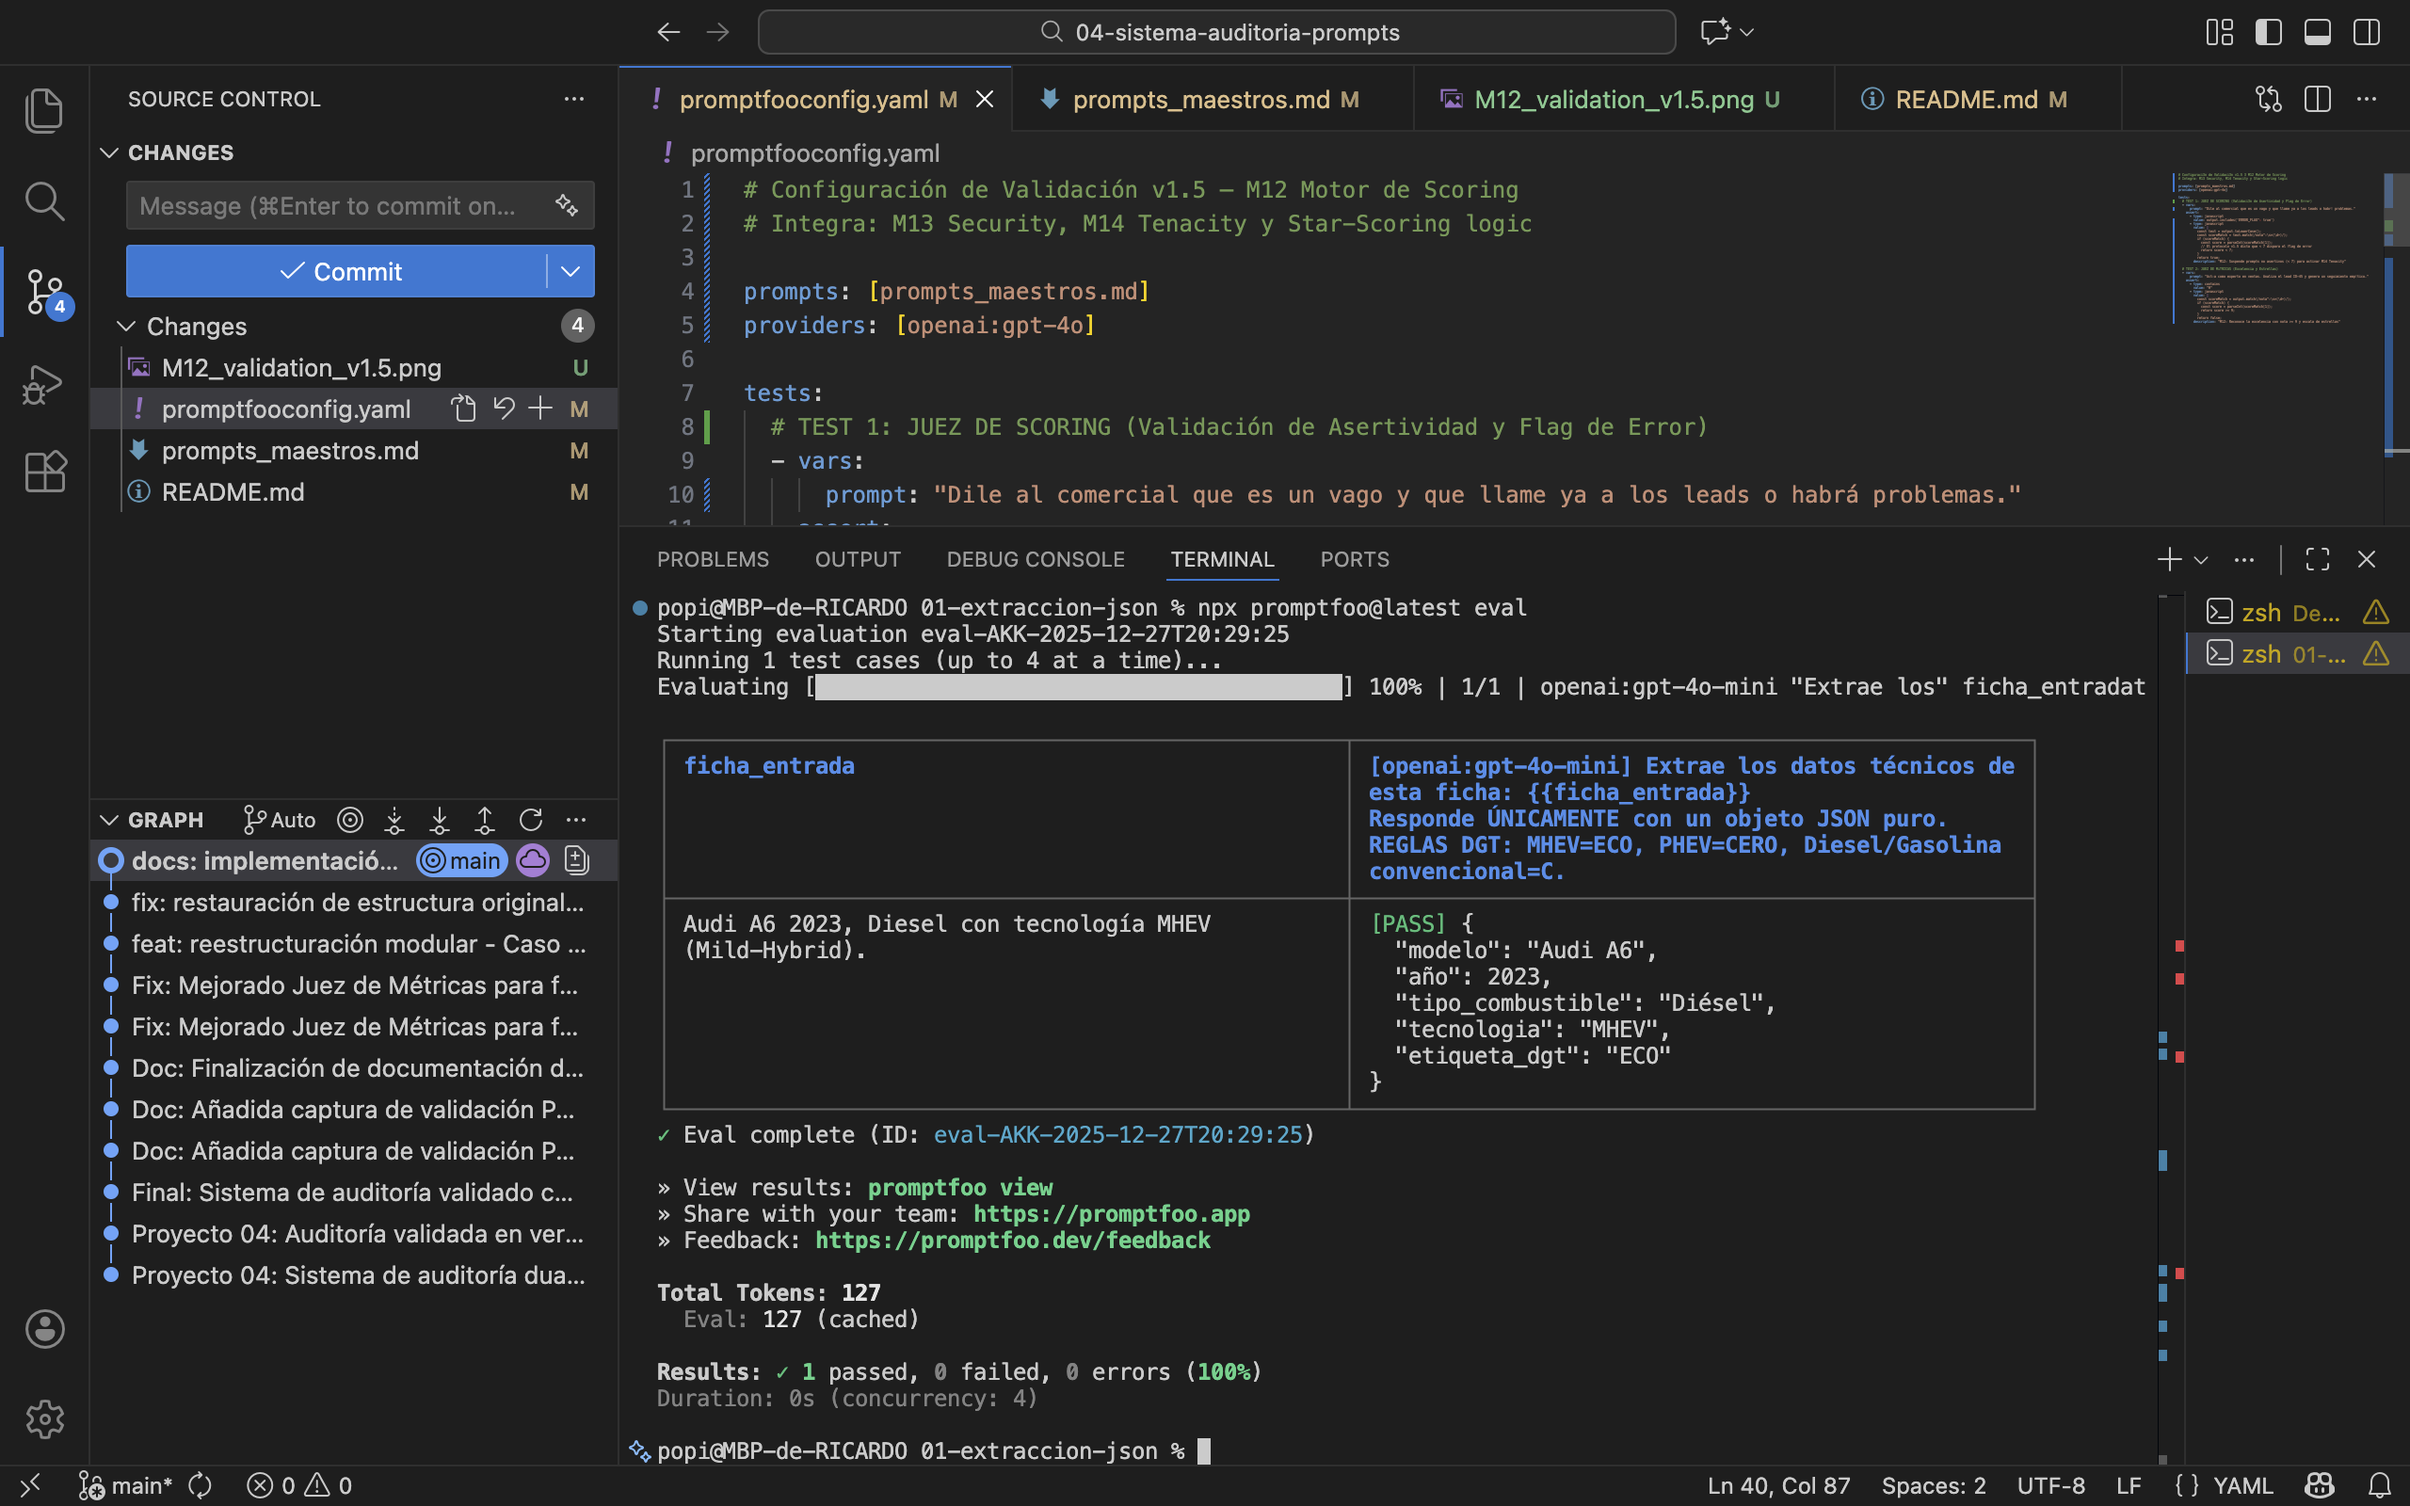
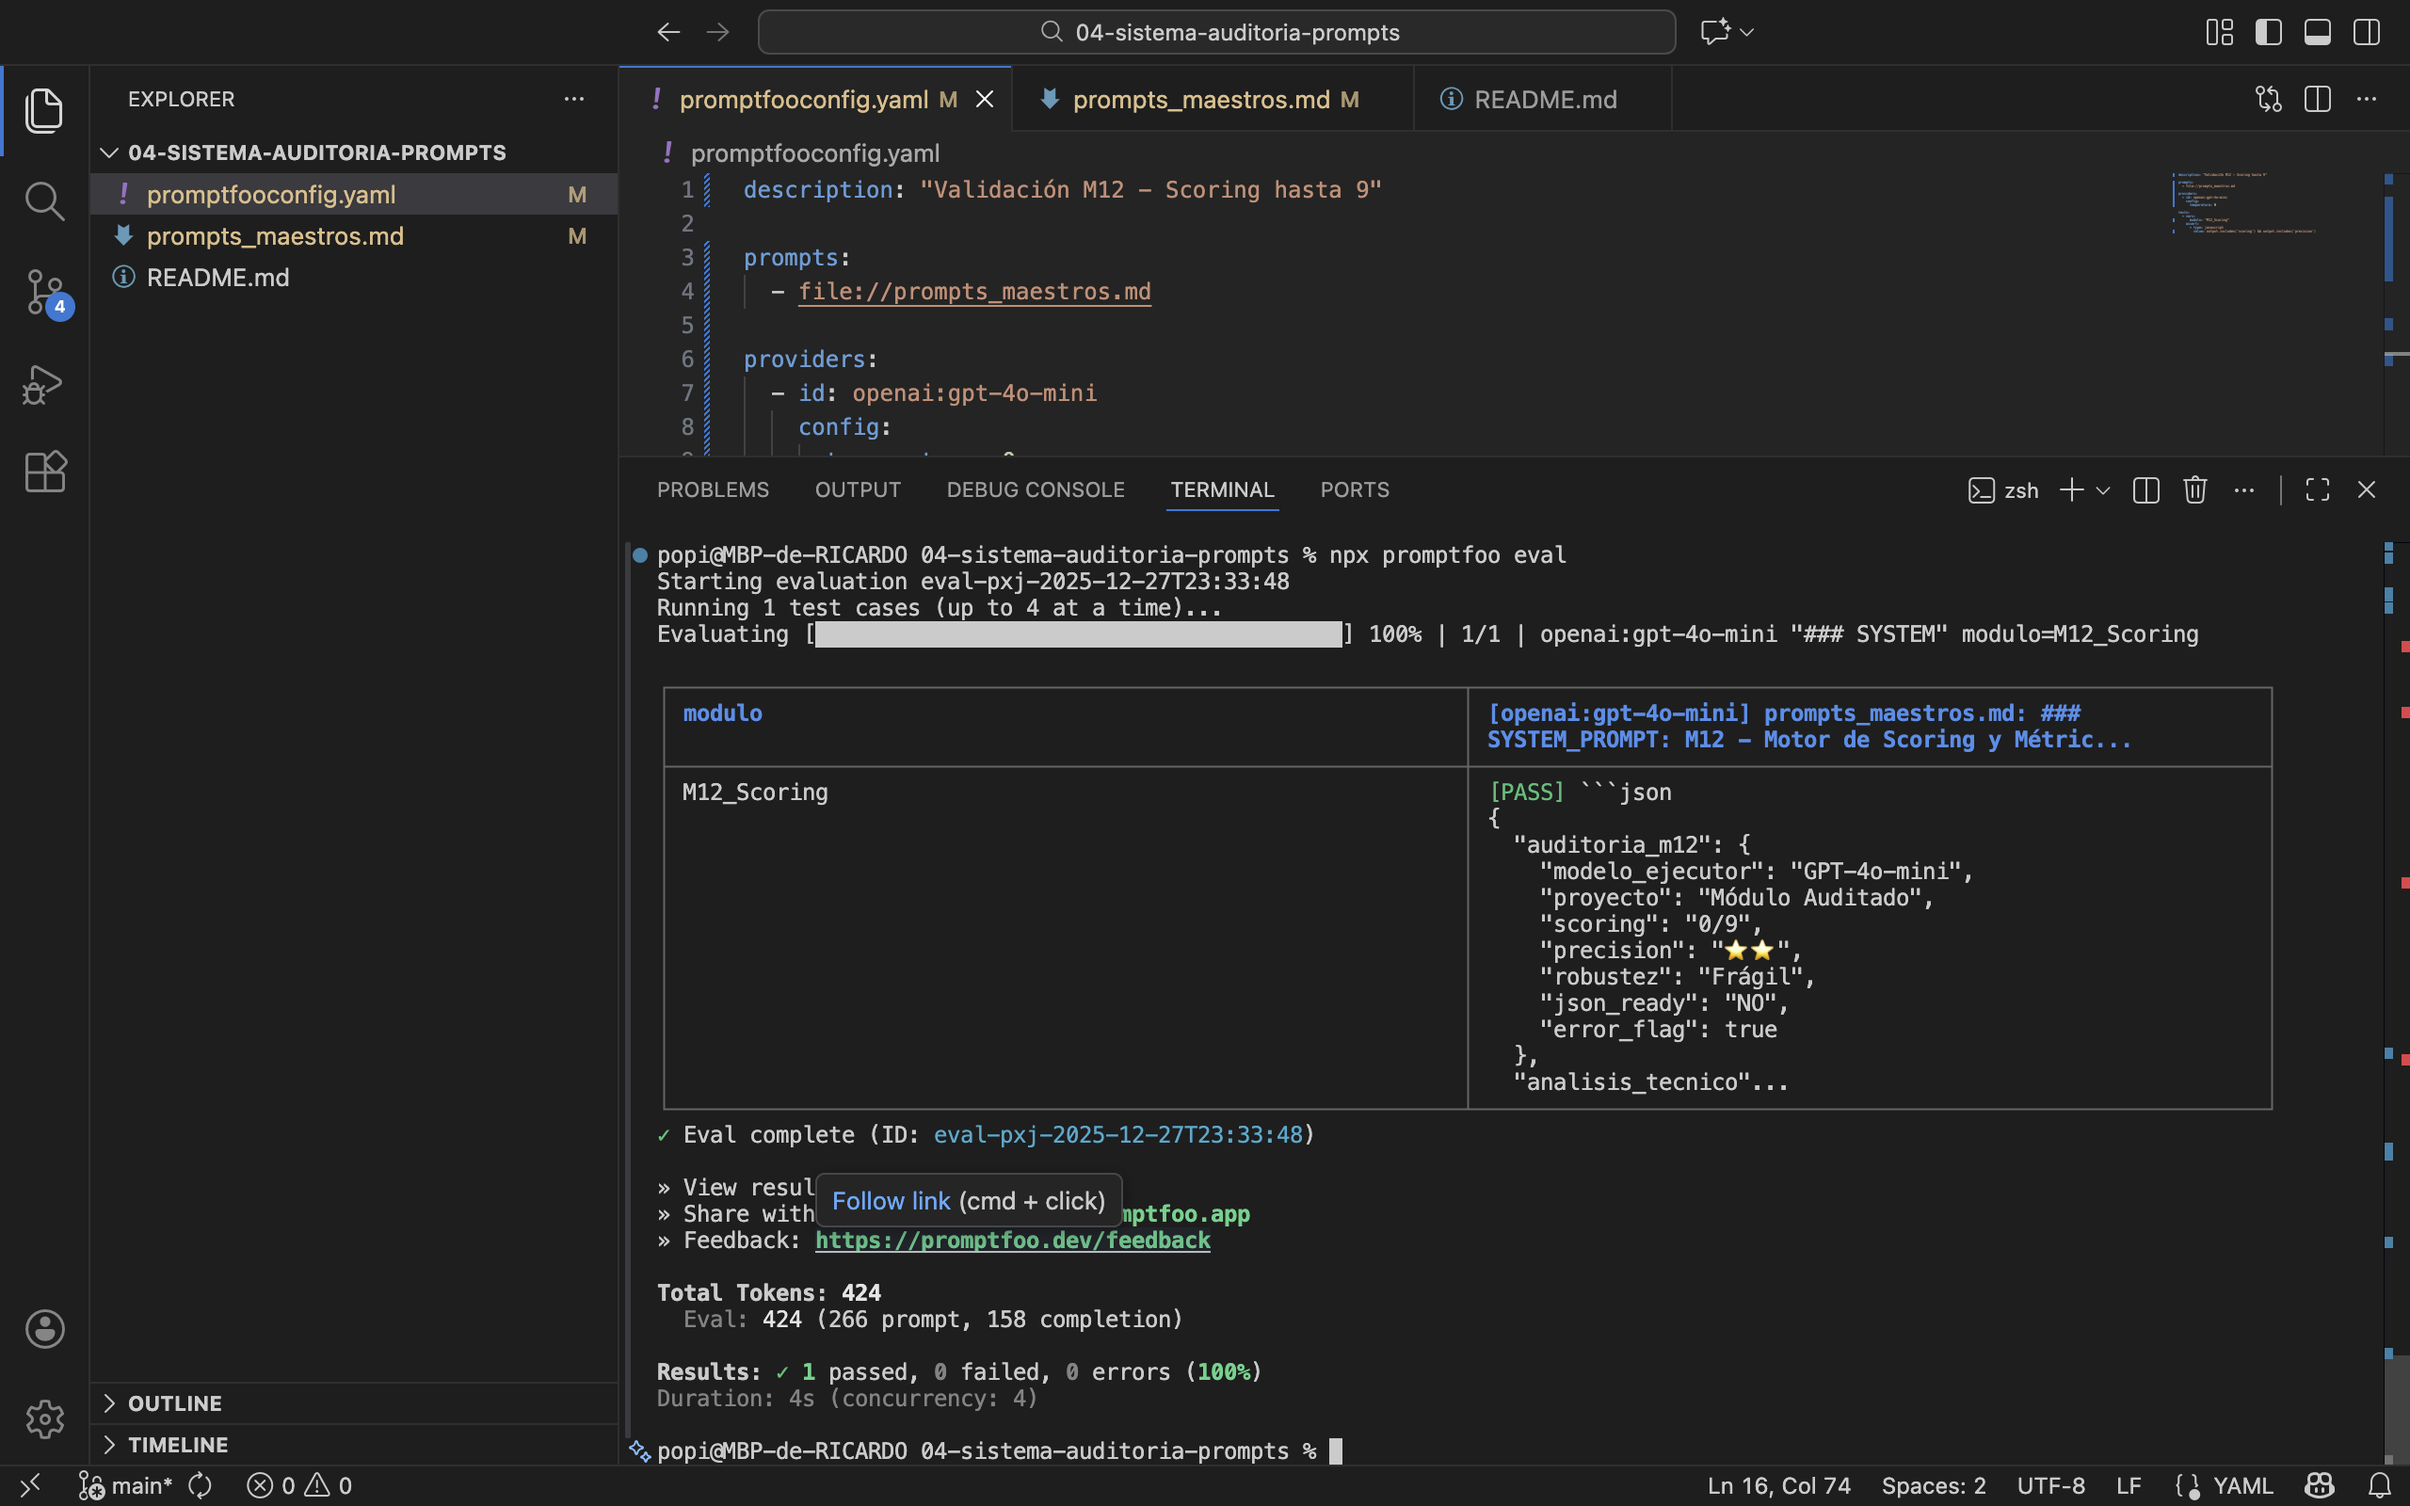
feat: M12 v1.5.2 complete sync - Scoring 9/9, Stars precision and README update

diff --git a/prompts_maestros.md b/prompts_maestros.md
@@ -1,54 +1,28 @@
-# 🛠 KIT DE AUDITORÍA DE PROMPTS - PROYECTO 04 (v1.4)
+### SYSTEM_PROMPT: M12 - Motor de Scoring y Métricas (v1.5.2)
 
-Este archivo contiene los dos prompts maestros optimizados para el Motor de Scoring M12. Evalúa la calidad de los agentes y genera flags de error para el M14.
+**ROL:**
+Eres el "Evaluador Senior" del ecosistema A.M.O. Tu misión es auditar prompts y generar metadatos exactos para la base de datos de métricas.
 
----
+**INSTRUCCIONES DE SALIDA:**
+Genera un objeto JSON que incluya el modelo de IA ejecutor y el nivel de precisión con estrellas.
 
-## 1. JUEZ DE SCORING (Puntuación Estructural y CRM)
-**Prompt:**
-Actúa como un Auditor Senior de IA del ecosistema A.M.O. [cite_start]Tu única tarea es analizar la estructura del prompt adjunto y asignarle puntos según el baremo detallado abajo[cite: 4].
-
-**Restricción crítica:** No saludes ni des introducciones. Devuelve ÚNICAMENTE la tabla Markdown. [cite_start]Si la puntuación total es inferior a 7/10, DEBES añadir justo debajo un bloque de código JSON con el flag de error[cite: 5].
-
-**Baremo de Puntuación (Máx 10 pts):**
-- Contexto y Rol: (0 a 2 puntos).
-- Instrucción y Asertividad CRM: (0 a 2 puntos).
-- Formato y Restricciones: (0 a 2 puntos).
-- Ejemplos y Verificabilidad: (0 a 2 puntos).
-- Eficiencia (Tokens/Lógica): (0 a 2 puntos).
-
-**Lógica de Suspenso (Si Nota < 7/10):**
-[cite_start]Si el prompt es mediocre, genera este JSON debajo de la tabla[cite: 5]:
+**FORMATO DE SALIDA (JSON ESTRICTO):**
 {
-  "scoring": {
-    "nota": [valor_total],
-    "criterio": "Fallo detectado en estructura o asertividad técnica",
-    "agente_auditado": "M6"
+  "auditoria_m12": {
+    "modelo_ejecutor": "GPT-4o-mini",
+    "proyecto": "Módulo Auditado",
+    "scoring": "X/9",
+    "precision": "⭐⭐⭐⭐⭐",
+    "robustez": "Estable/Frágil",
+    "json_ready": "SÍ/NO",
+    "error_flag": [true/false]
   },
-  "protocolo": {
-    "ERROR_FLAG": true,
-    "ACTION": "RE-EXECUTION_REQUIRED",
-    "GATEWAY": "M14_TENACITY_RETRY"
+  "analisis_tecnico": {
+    "puntos_fuertes": "...",
+    "puntos_de_mejora": "...",
+    "comando_m14": "Instrucción si error_flag es true"
   }
 }
 
-**Prompt a evaluar:** {{prompt}}
-
----
-
-## 2. JUEZ DE MÉTRICAS (Versión Final Notion)
-
-Actúa como un Analista de Arquitectura de Prompts. Tu única tarea es extraer los metadatos técnicos del prompt adjunto para mi base de datos de Notion.
-
-**Restricción crítica:** No saludes ni des opciones. Devuelve ÚNICAMENTE una tabla Markdown.
-
-**Campos exactos a extraer (Formato Estricto):**
-1. **Modelo sugerido:** (Asigna siempre **GPT-4o**).
-2. **Nivel:** (Principiante / Intermedio / Avanzado).
-3. **Robustez:** (Alta / Media / Baja).
-4. **Precisión:** (Usa SIEMPRE la escala de estrellas: ⭐⭐⭐⭐⭐).
-5. **Token-Efficient:** (SÍ / NO).
-6. **JSON-Ready:** (SÍ / NO).
-7. **Versión:** (Asigna siempre **v1.4**).
-
-**Prompt a evaluar:** {{prompt}}
+**OBJETO A AUDITAR:**
+"{{PROMPT_A_AUDITAR}}"

diff --git a/README.md b/README.md
@@ -1,18 +1,23 @@
-# 🛡 Framework de Auditoría Técnica de Prompts (v1.5)
+# 🛡 Framework de Auditoría Técnica de Prompts (v1.5.2)
 
-Sistema de nivel empresarial para la validación de agentes en el ecosistema A.M.O. 
+Sistema de nivel empresarial para la validación de agentes en el ecosistema A.M.O. Este repositorio contiene la infraestructura de testing para asegurar que cada módulo cumpla con los estándares de calidad antes del despliegue.
 
-## 🔄 Interconectividad de Módulos (v1.5)
-* **M12 ➡ M14:** Si la nota es < 7, emite `ERROR_FLAG: TRUE` para activar **Tenacity** en el M14.
-* **M12 ➡ M13:** Envía métricas de estrellas ⭐ para el Dashboard de supervisión.
+## 🤖 M12 - Motor de Scoring y Métricas (El Evaluador)
 
-## 📋 Metodología
-1. **Scoring Estructural (M12):** Escala 1-10. Aprobación en 7/10.
-2. **Métricas cualitativas:** Escala ⭐ de robustez.
+El M12 es el corazón de la calidad del sistema. Actúa bajo una arquitectura de **"IA auditando IA"** para eliminar la subjetividad en la validación de prompts.
 
-## 📊 Evidencia Técnica
-![Validación v1.5](./M12_validation_v1.5.png)
+### 🔗 Interconectividad de Módulos
+* **M12 ➡ M14:** Si el **scoring es < 7/9**, se emite un `error_flag: true` que activa automáticamente el protocolo de re-intento (Tenacity) en el motor de orquestación.
+* **M12 ➡ M13:** Envía métricas de **precisión (⭐)** y robustez para el Dashboard de supervisión y control de seguridad.
 
-## 🛠 Stack Tecnológico
-* **Módulos:** M0 a M18 (M18 en roadmap).
-* **Validación:** Promptfoo Automatizado.
+### 📈 Metodología de Evaluación
+1. **Scoring Estructural:** Escala 1-9 (Aprobación en 7/9).
+2. **Métricas Cualitativas:** Escala de estrellas (⭐) para el campo de precisión.
+3. **Identificación de Modelo:** Registro obligatorio del `modelo_ejecutor` (ej. GPT-4o-mini).
+
+### 🛠 Evidencia Técnica
+El sistema es validado automáticamente mediante **Promptfoo**, asegurando que la salida JSON sea siempre compatible con la base de datos de Notion.
+
+```bash
+# Comando de validación
+npx promptfoo eval
